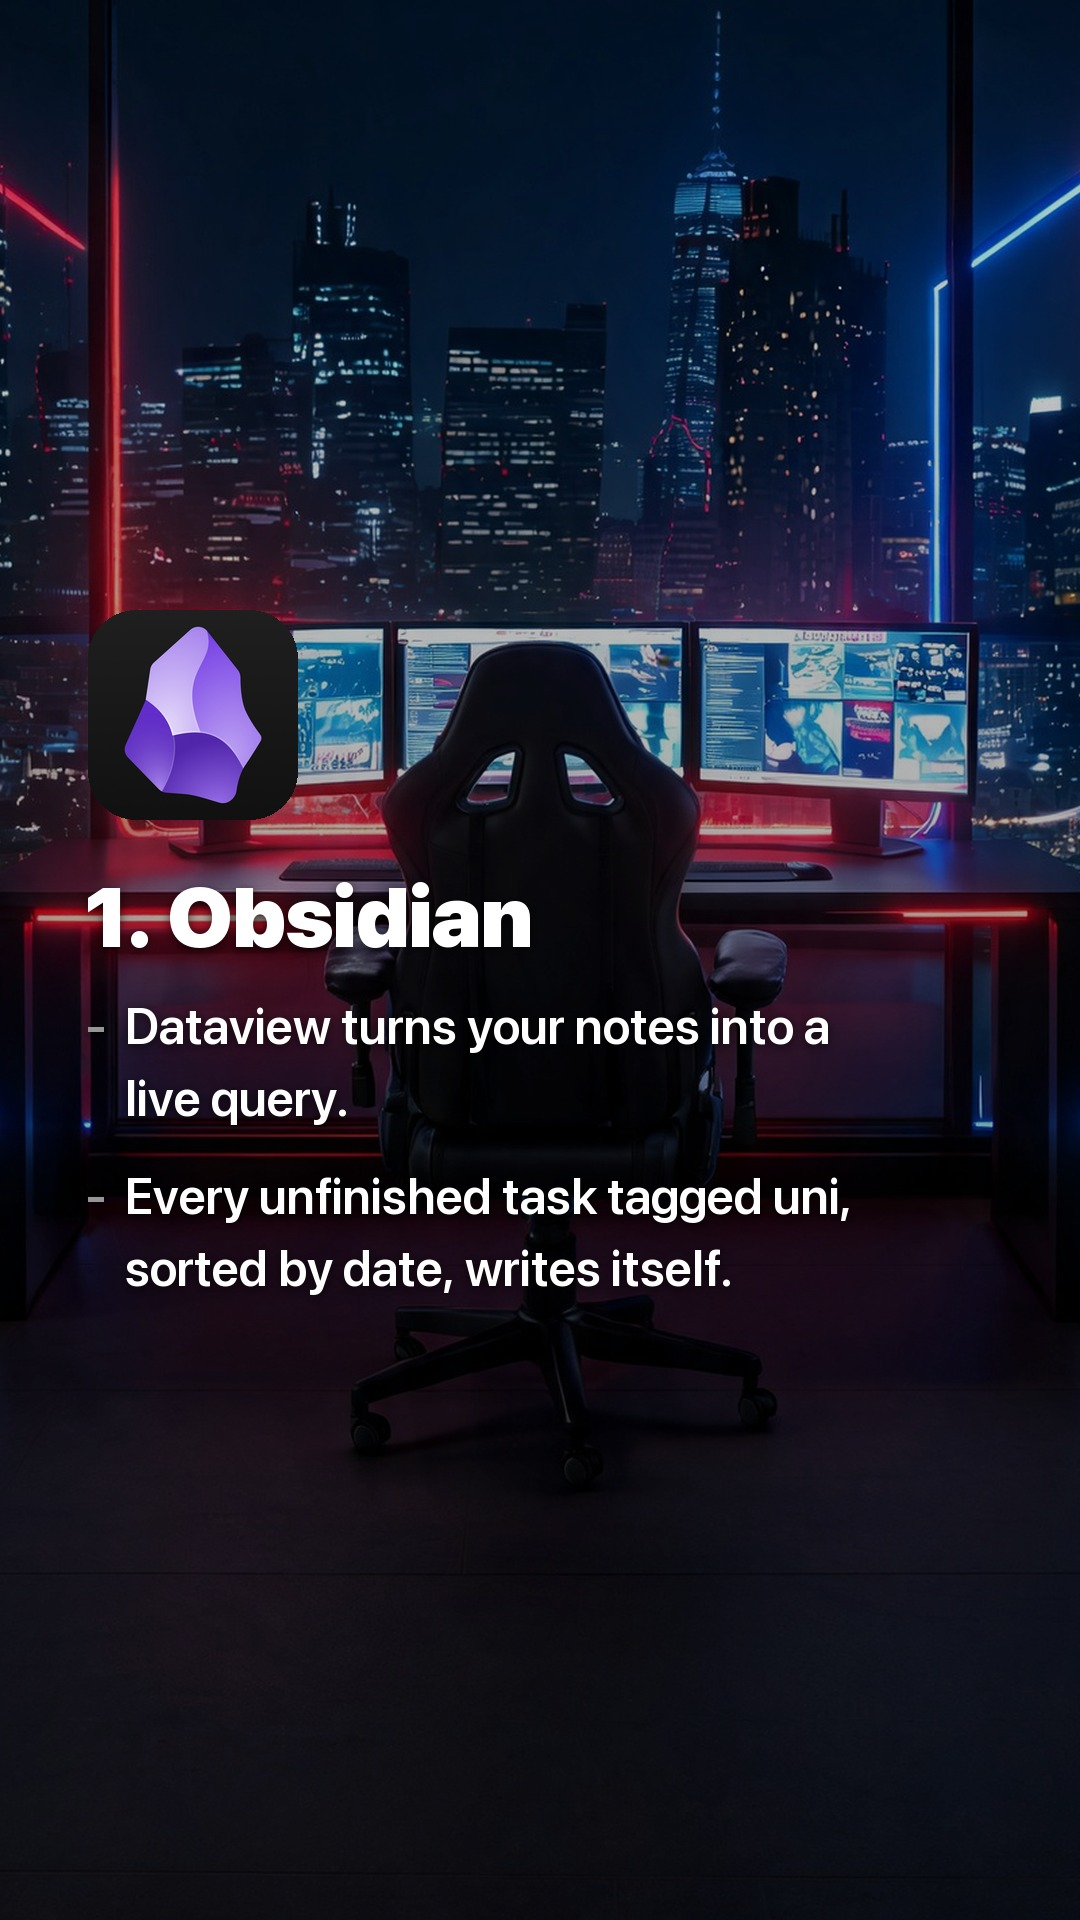
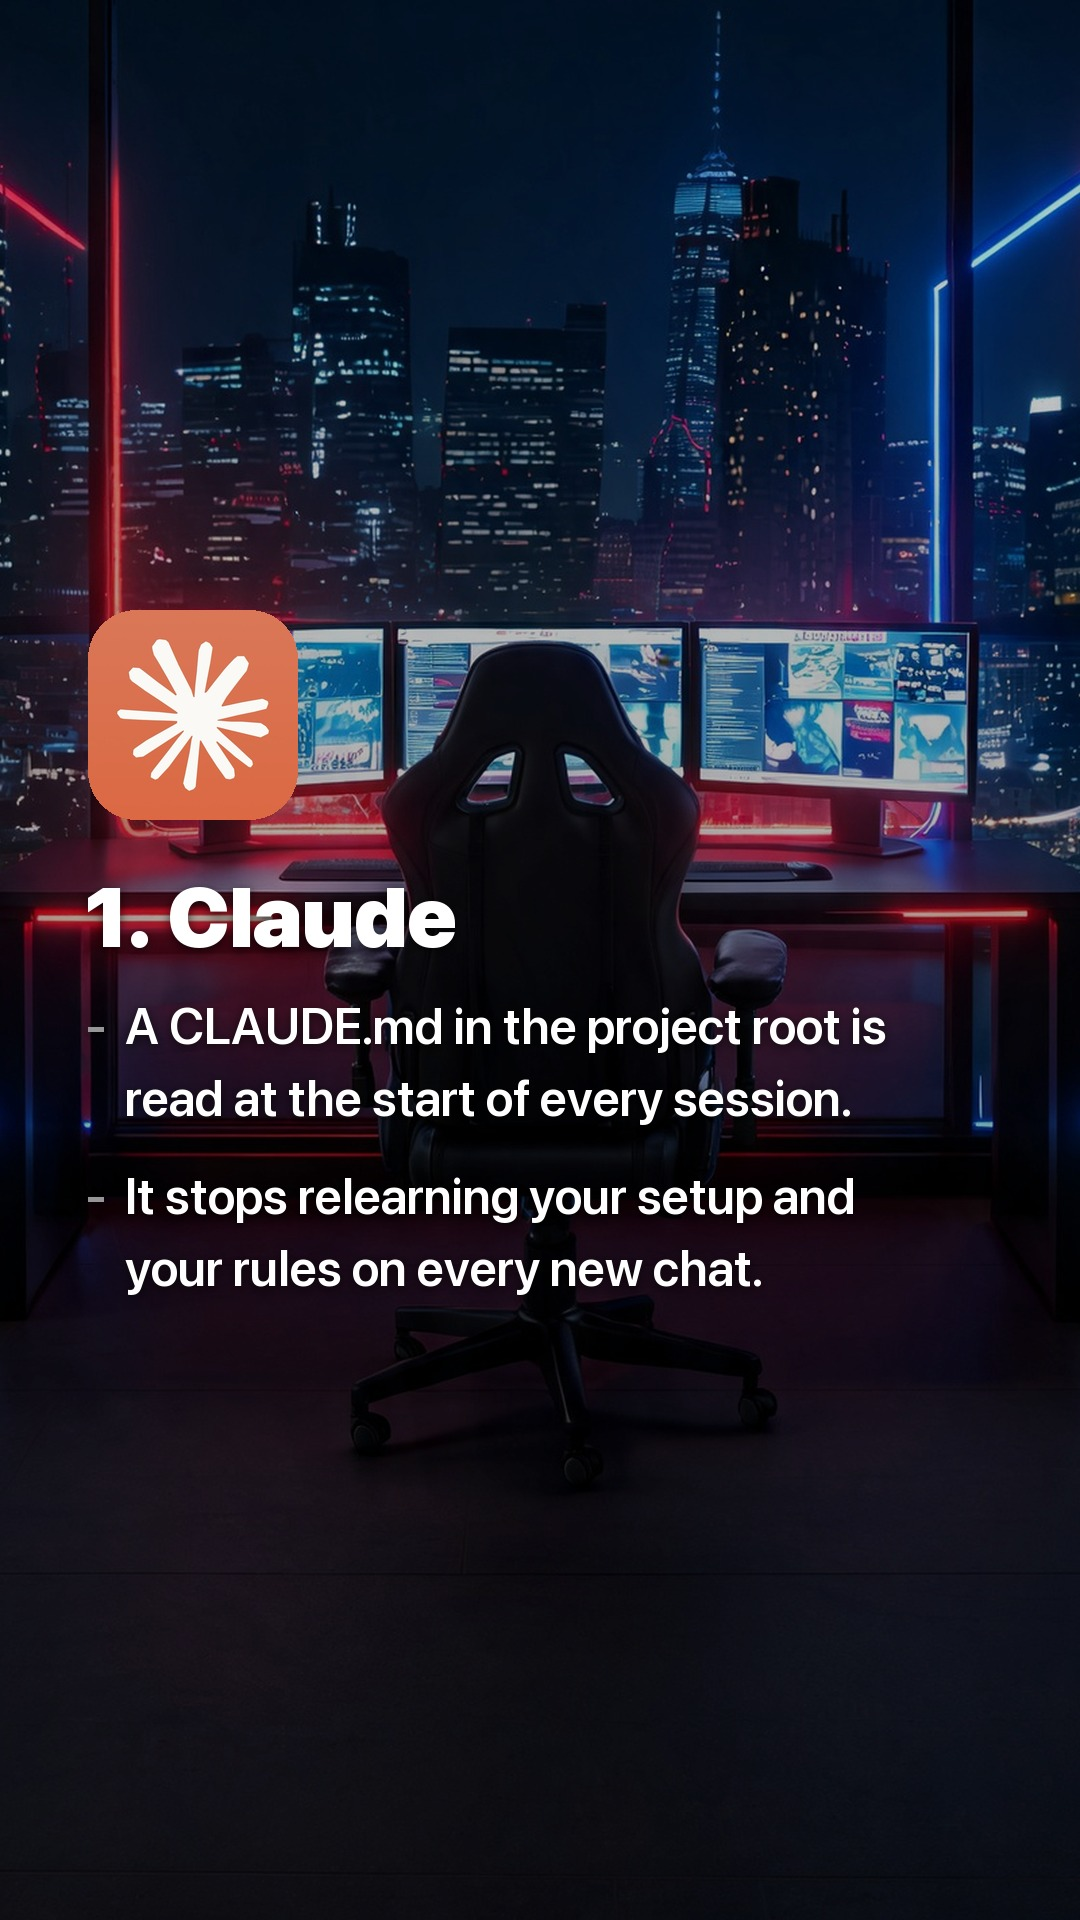
simpler roster rules: reuse allowed, one LLM per post
Cooldown off. Reusing a tool is fine; the audience is not reading every
post, and a stack that changes completely each time reads as invented.
What has to stay fresh is the teaching point.

One LLM per post, because a second one is the same slide twice: nobody
can tell two models apart from a one line description, and it burns a
slot. assert_one_llm enforces it and the model rotates between posts.

keep-five rebuilt on a mainstream roster: Claude, ARCO, Notion, GitHub,
CapCut.

Claude-Session: https://claude.ai/code/session_018WcmYQJRQqBfrRpJzu76Jc

Changed region(s): [[0.1222, 0.4375, 0.825, 0.6875], [0.0611, 0.3125, 0.275, 0.4375]]

diff --git a/tools/gen-keep-five.py b/tools/gen-keep-five.py
@@ -1,68 +1,69 @@
 #!/usr/bin/env python3
-"""keep-five: tools pillar, rebuilt after the Higgsfield resync.
+"""keep-five: tools pillar, mainstream roster, one LLM.
 
-bg-h27 (the ARCO slide's background) was deleted in Higgsfield and retired by
-sync_bg.py, and the user dropped Soulver. Excalidraw takes the #3 slot.
+Duplicates across posts are fine now; the freshness that matters is the
+teaching point, not the logo.
 """
 import os
 import sys
 sys.path.insert(0, '/Users/thinh/SIXSIX/arco-app/tools')
 from compose import (app_slide, hook_slide, assert_varied, assert_fresh_tools,
-                     next_arco_angle, record_post_tools)
+                     assert_one_llm, next_arco_angle, record_post_tools)
 
 OUT = '/Users/thinh/SIXSIX/arco-app/drafts/keep-five'
 os.makedirs(OUT, exist_ok=True)
 
-TOOLS = ['Obsidian', 'ARCO', 'Excalidraw', 'GitHub', 'Readwise Reader']
-# App slides carry five lines of body copy, so their backgrounds have to be
-# dark enough for the scrim to hold white text. Daylight scenes (desk-city-day,
-# villa-day) wash the copy out no matter how hard the scrim pushes; the hook is
-# the only slide bright enough to work, because it carries two short lines.
-BGS = ['bg-h01.jpg',   # hook        lounge-day
-       'bg-h59.jpg',   # obsidian    desk-led-neon
-       'bg-h53.jpg',   # arco        desk-led-warm
-       'bg-h44.jpg',   # excalidraw  window-silhouette
-       'bg-h29.jpg',   # github      supercars-dusk
-       'bg-h21.jpg']   # readwise    lounge-night
+TOOLS = ['Claude', 'ARCO', 'Notion', 'GitHub', 'CapCut']
 
+# App slides carry five lines of body copy, so their backgrounds have to be
+# dark enough for the scrim to hold white text. Daylight scenes wash the copy
+# out no matter how hard the scrim pushes; only the hook is short enough.
+BGS = ['bg-h01.jpg',   # hook      lounge-day
+       'bg-h59.jpg',   # claude    desk-led-neon
+       'bg-h53.jpg',   # arco      desk-led-warm
+       'bg-h44.jpg',   # notion    window-silhouette
+       'bg-h29.jpg',   # github    supercars-dusk
+       'bg-h21.jpg']   # capcut    lounge-night
+
+assert_one_llm(TOOLS)
 assert_fresh_tools(TOOLS)
 assert_varied(BGS)
 
 hook_slide(BGS[0], ['the 5 apps i would keep',
                     'if i had to delete everything else'], f'{OUT}/01.jpg')
 
-app_slide(BGS[1], 'icon-obsidian.jpg', '1. Obsidian', [
-    'Dataview turns your notes into a',
-    'live query.',
+app_slide(BGS[1], 'icon-claude.jpg', '1. Claude', [
+    'A CLAUDE.md in the project root is',
+    'read at the start of every session.',
     '',
-    'Every unfinished task tagged uni,',
-    'sorted by date, writes itself.',
+    'It stops relearning your setup and',
+    'your rules on every new chat.',
 ], f'{OUT}/02.jpg')
 
 app_slide(BGS[2], 'icon-arco.png', '2. ARCO', next_arco_angle(), f'{OUT}/03.jpg')
 
-app_slide(BGS[3], 'icon-excalidraw.png', '3. Excalidraw', [
-    'The Obsidian plugin keeps the',
-    'drawing inside the note itself.',
+app_slide(BGS[3], 'icon-notion.jpg', '3. Notion', [
+    'A synced block is one block shown',
+    'in many pages.',
     '',
-    'Diagrams version in git next to',
-    'the text they explain.',
+    'Edit it once and every page that',
+    'uses it changes with it.',
 ], f'{OUT}/04.jpg')
 
 app_slide(BGS[4], 'icon-github.jpg', '4. GitHub', [
     'Actions runs on a cron, not just',
     'on push.',
     '',
-    'A weekly scraper or report runs',
-    'on their machines, no server.',
+    'A nightly job or a weekly report',
+    'runs on their machines, no server.',
 ], f'{OUT}/05.jpg')
 
-app_slide(BGS[5], 'icon-readwise.jpg', '5. Readwise Reader', [
-    'Highlights come back on a spaced',
-    'schedule, not in a dead archive.',
+app_slide(BGS[5], 'icon-capcut.png', '5. CapCut', [
+    'Auto captions stay editable as',
+    'text after they are generated.',
     '',
-    'You see the line again right before',
-    'you would have forgotten it.',
+    'Fix the one word it misheard and',
+    'the timing holds.',
 ], f'{OUT}/06.jpg')
 
 record_post_tools('keep-five', TOOLS)

diff --git a/tools/compose.py b/tools/compose.py
@@ -146,7 +146,11 @@ def assert_one_person(bgs):
 
 HOOK_LOG = f'{SP}/hook_usage.json'
 TOOL_LOG = os.path.join(os.path.dirname(os.path.abspath(__file__)), 'tool_usage.json')
-TOOL_COOLDOWN = 6          # posts a tool must sit out before it can return
+# Off. Reusing a tool is fine: the audience is not reading every post, and a
+# stack that changes completely each time reads as made up. What actually
+# annoyed people was the same five names in the same order, which the format
+# rotation and fresh teaching points handle. Set above 0 to switch it back on.
+TOOL_COOLDOWN = 0          # posts a tool must sit out before it can return
 
 
 def tool_history():
@@ -158,6 +162,8 @@ def tool_history():
 
 def tools_on_cooldown():
     """Tools used in the last TOOL_COOLDOWN posts — do not use these."""
+    if TOOL_COOLDOWN <= 0:
+        return set()
     recent = tool_history()[-TOOL_COOLDOWN:]
     return {t for post in recent for t in post['tools']}
 
@@ -193,6 +199,25 @@ def next_arco_angle():
     d['used'].append(pick['id'])
     _json.dump(d, open(ARCO_ANGLES, 'w'), indent=1)
     return pick['lines']
+
+
+# One LLM per post. Two of them is the same slide twice: the viewer cannot
+# tell the models apart from a one line description, and it burns a slot that
+# could teach something else. Which one varies by post.
+LLMS = {
+    'Claude', 'Codex', 'ChatGPT', 'Gemini', 'Perplexity', 'Manus',
+    'Antigravity', 'Cursor', 'Copilot', 'Grok', 'DeepSeek', 'v0', 'Lovable',
+}
+
+
+def assert_one_llm(tools):
+    """Raise if a post names more than one LLM or AI coding agent."""
+    used = [t for t in tools if t in LLMS]
+    if len(used) > 1:
+        raise SystemExit(
+            f'{len(used)} LLMs in one post: {", ".join(used)}. '
+            'Pick one; the second is the same slide twice.')
+    return True
 
 
 def assert_fresh_tools(tools, allow=()):
